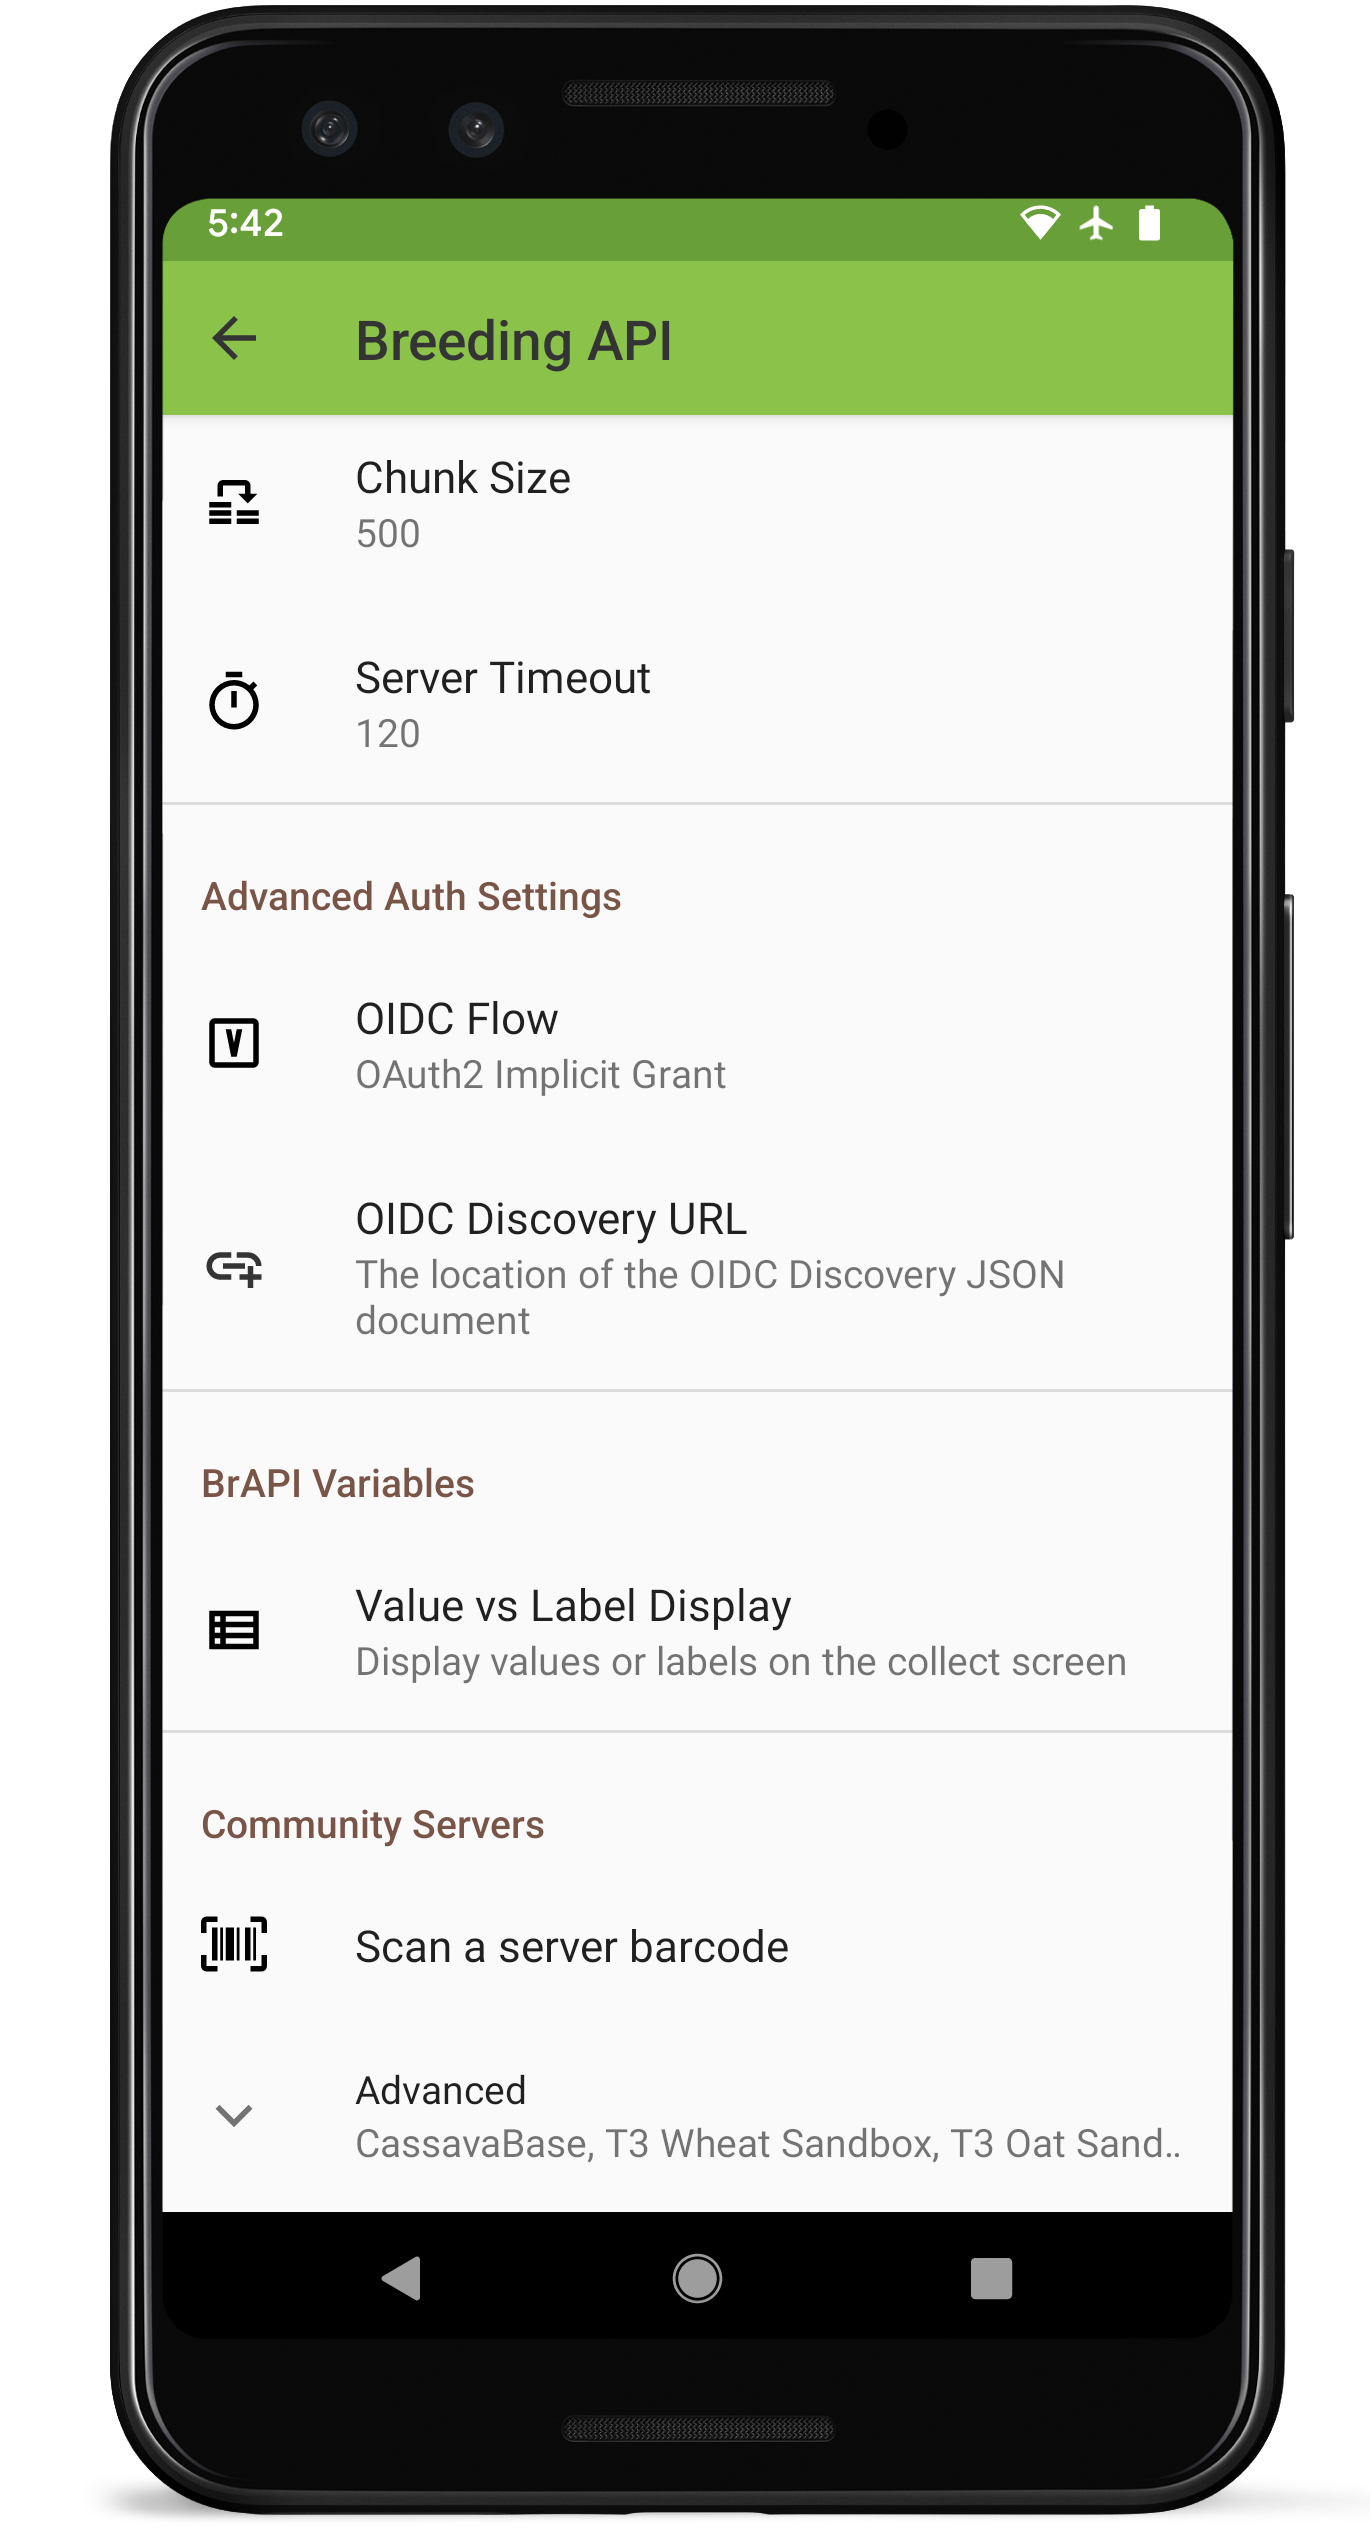
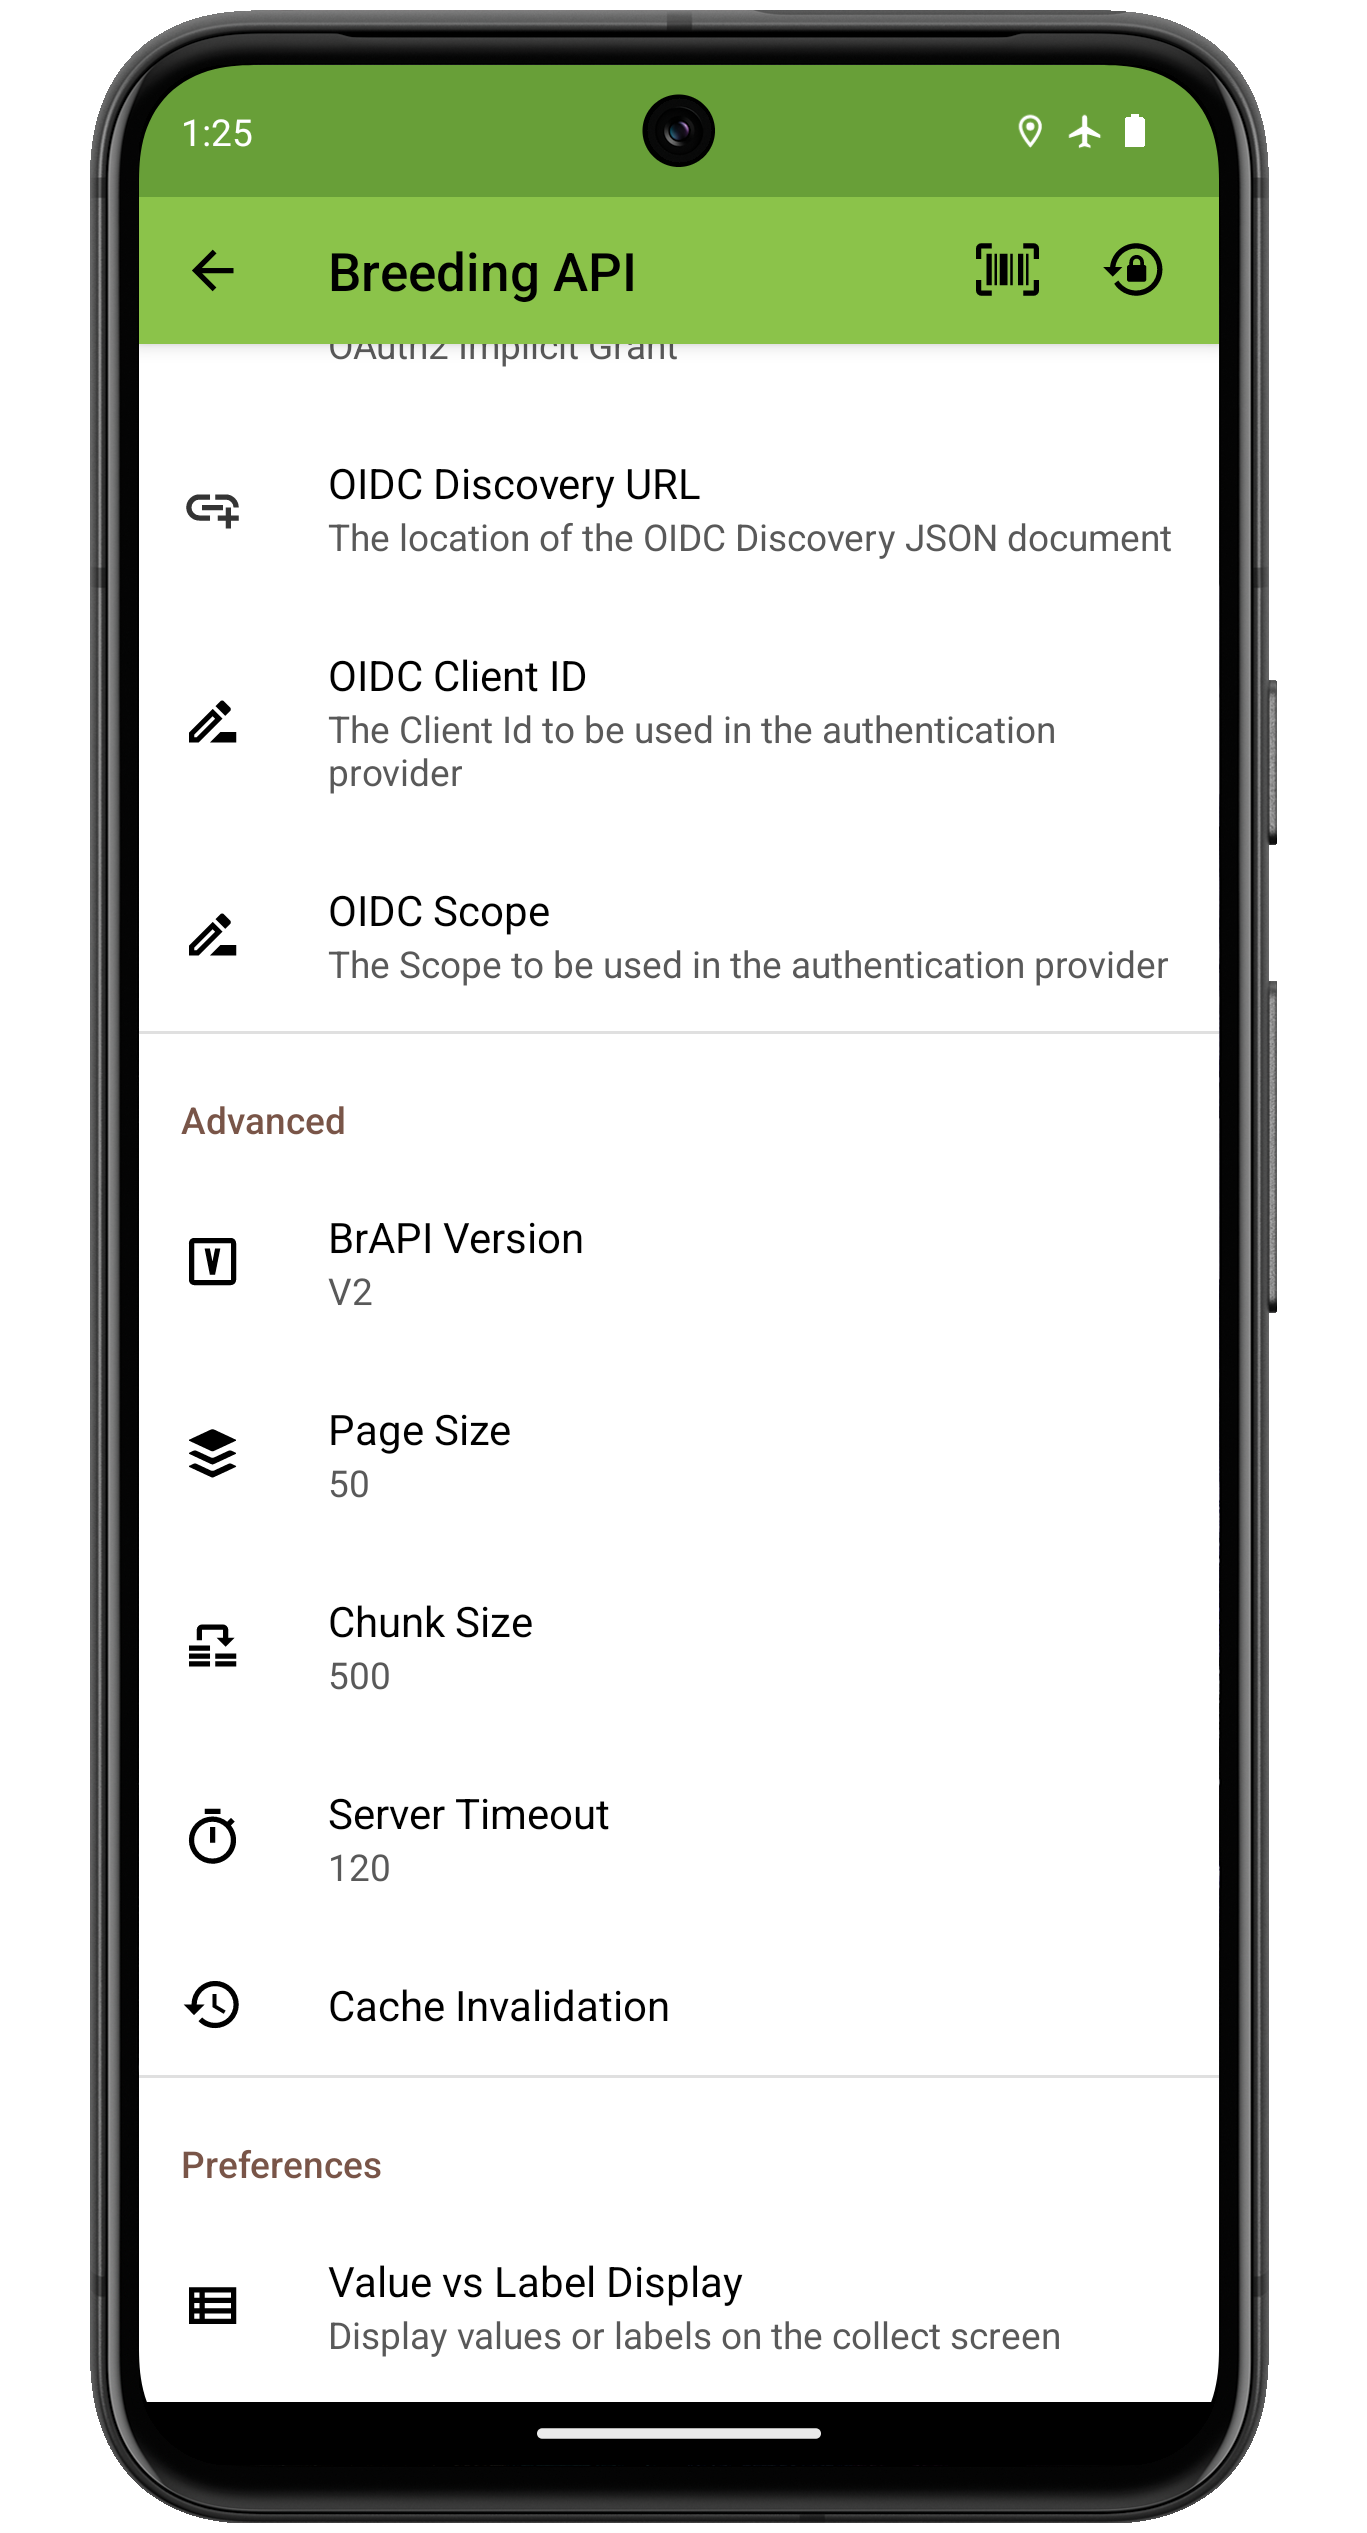
deploy: e729fdcaf909444b9840419ceb9ea5ea85849f23

diff --git a/settings/settings-brapi.md b/settings/settings-brapi.md
@@ -1,14 +1,17 @@
 BrAPI Settings
 ==============
 
-Configuration
--------------
-
 <figure align="center" class="image">
-  <img src="_static/images/settings/brapi/settings_brapi_framed.png" width="350px"> 
-  <figcaption><i>BrAPI Configuration
-Settings</i></figcaption> 
+  <img src="_static/images/settings/brapi/settings_brapi_1_framed.png" width="350px"> 
+  <figcaption><i>BrAPI settings screen layout</i></figcaption> 
 </figure>
+
+#### <img ref="url" style="vertical-align: middle;" src="_static/icons/settings/brapi/server-network.png" width="20px"> Enable BrAPI
+
+Enable/Disable BrAPI throughout Field Book app. Disabling BrAPI hides all other BrAPI settings, and removes BrAPI as an option from imports and exports.
+
+Server
+------
 
 #### <img ref="url" style="vertical-align: middle;" src="_static/icons/settings/brapi/link-plus.png" width="20px"> BrAPI Base URL
 
@@ -19,10 +22,47 @@ Set the server URL when importing via BrAPI.
   <figcaption><i>BrAPI Base URL setting</i></figcaption> 
 </figure>
 
-#### <img ref="authorize" style="vertical-align: middle;" src="_static/icons/settings/brapi/open-in-new.png" width="20px"> Authorize BrAPI
+#### <img ref="url" style="vertical-align: middle;" src="_static/icons/settings/brapi/rename-outline.png" width="20px"> BrAPI Base URL
 
-Open the authorization page to login to the BrAPI server and allow Field
-Book to communicate with it.
+Set the display name Field Book should use when referring to the BrAPI server.
+
+<figure align="center" class="image">
+  <img src="_static/images/settings/brapi/settings_brapi_display_name.png" width="325px"> 
+  <figcaption><i>BrAPI Display Name setting</i></figcaption> 
+</figure>
+
+Authorization
+-------------
+
+#### <img ref="version" style="vertical-align: middle;" src="_static/icons/settings/brapi/alpha-v-box-outline.png" width="20px"> OIDC Flow
+
+BrAPI server authentication version. Defaults to OAuth2 Implicit Grant.
+
+<figure align="center" class="image">
+  <img src="_static/images/settings/brapi/settings_brapi_oidc_flow.png" width="325px"> 
+  <figcaption><i>BrAPI OIDC flow setting</i></figcaption> 
+</figure>
+
+#### <img ref="url" style="vertical-align: middle;" src="_static/icons/settings/brapi/link-plus.png" width="20px"> OIDC Discovery URL
+
+The location of the OIDC discovery JSON document.
+
+<figure align="center" class="image">
+  <img src="_static/images/settings/brapi/settings_brapi_oidc_url.png" width="325px"> 
+  <figcaption><i>BrAPI OIDC url setting</i></figcaption> 
+</figure>
+
+#### <img ref="url" style="vertical-align: middle;" src="_static/icons/settings/brapi/rename-outline.png" width="20px"> OIDC Client ID and OIDC Scope
+
+Optional settings for when ODIC Client ID and Scope need to be specified.
+
+Advanced
+--------
+
+<figure align="center" class="image">
+  <img src="_static/images/settings/brapi/settings_brapi_2_framed.png" width="350px"> 
+  <figcaption><i>BrAPI Advanced Settings</i></figcaption> 
+</figure>
 
 #### <img ref="version" style="vertical-align: middle;" src="_static/icons/settings/brapi/alpha-v-box-outline.png" width="20px"> BrAPI Version
 
@@ -62,34 +102,17 @@ before timing out. Defaults to 2 minutes.
   <figcaption><i>BrAPI server timeout setting</i></figcaption> 
 </figure>
 
-Advanced Auth Settings
-----------------------
+#### <img ref="timeout" style="vertical-align: middle;" src="_static/icons/settings/brapi/history.png" width="20px"> Cache Invalidation
+
+Set the interval for Field Book to invalidate/refresh cached BrAPI data. Cache refreshes are important for field and trait imports to be able to capture new data from the BrAPI server.
 
 <figure align="center" class="image">
-  <img src="_static/images/settings/brapi/settings_brapi_2_framed.png" width="350px"> 
-  <figcaption><i>BrAPI Advanced Auth Settings</i></figcaption> 
+  <img src="_static/images/settings/brapi/settings_brapi_cache_invalidation.png" width="325px"> 
+  <figcaption><i>BrAPI cache invalidation</i></figcaption> 
 </figure>
 
-#### <img ref="version" style="vertical-align: middle;" src="_static/icons/settings/brapi/alpha-v-box-outline.png" width="20px"> OIDC Flow
-
-BrAPI server authentication version. Defaults to OAuth2 Implicit Grant.
-
-<figure align="center" class="image">
-  <img src="_static/images/settings/brapi/settings_brapi_oidc_flow.png" width="325px"> 
-  <figcaption><i>BrAPI OIDC flow setting</i></figcaption> 
-</figure>
-
-#### <img ref="url" style="vertical-align: middle;" src="_static/icons/settings/brapi/link-plus.png" width="20px"> OIDC Discovery URL
-
-The location of the OIDC discovery JSON document.
-
-<figure align="center" class="image">
-  <img src="_static/images/settings/brapi/settings_brapi_oidc_url.png" width="325px"> 
-  <figcaption><i>BrAPI OIDC url setting</i></figcaption> 
-</figure>
-
-BrAPI Variables
----------------
+Preferences
+-----------
 
 #### <img ref="display" style="vertical-align: middle;" src="_static/icons/settings/brapi/view-list-outline.png" width="20px"> Value vs Label Display
 
@@ -99,21 +122,4 @@ from a BrAPI Variable.
 <figure align="center" class="image">
   <img src="_static/images/settings/brapi/settings_brapi_value_label.png" width="325px"> 
   <figcaption><i>BrAPI Value vs Label setting</i></figcaption> 
-</figure>
-
-Community Servers
------------------
-
-#### <img ref="barcode" style="vertical-align: middle;" src="_static/icons/settings/brapi/barcode-scan.png" width="20px"> Scan a server barcode
-
-Add a BrAPI server by scanning a URL barcode.
-
-#### Advanced
-
-Access servers from the BrAPI community.
-
-<figure align="center" class="image">
-  <img src="_static/images/settings/brapi/settings_brapi_database_whitelist.png" width="325px"> 
-  <figcaption><i>BrAPI database
-whitelist</i></figcaption> 
 </figure>

diff --git a/faq.md b/faq.md
@@ -15,9 +15,9 @@ First, consider if it's possible to import data without prepping your own custom
 
 If it is necessary to prepare your own custom files:
 
-Custom fields can be loaded by preparing a spreadsheet. The required information is detailed in the <a href="fields.md"><img style="vertical-align: middle;" src="_static/icons/home/view-module.png" width="20px"></a> [Fields](fields.md) section of the docs. The app comes with a handful of sample fields that are loaded from files, so you can also look at `field_sample.csv` in the `/field_import` folder for guidance.
+    Custom fields can be loaded by preparing a spreadsheet. The required information is detailed in the <a href="fields.md"><img style="vertical-align: middle;" src="_static/icons/home/view-module.png" width="20px"></a> [Fields](fields.md) section of the docs. The app comes with a handful of sample fields that are loaded from files, so you can also look at `field_sample.csv` in the `/field_import` folder for guidance.
 
-Custom traits are best created directly in the app, but can be saved to and loaded from a `.trt` file. The `.trt` extension is not a special format, it is just a `.csv` file by a different name, so can be opened and edited if needed. The app comes with a handful of sample traits that are loaded from a file, so you can also look at `trait_sample.trt` in the `/trait` folder for guidance.
+    Custom traits are best created directly in the app, but can be saved to and loaded from a `.trt` file. The `.trt` extension is not a special format, it is just a `.csv` file by a different name, so can be opened and edited if needed. The app comes with a handful of sample traits that are loaded from a file, so you can also look at `trait_sample.trt` in the `/trait` folder for guidance.
 
 What filetypes are compatible with Field Book?
 ----------------------------------------------
@@ -29,15 +29,15 @@ What are the recommended devices for Field Book?
 
 Field Book is designed to work on any modern Android device (~10 years old or less). When making a choice between Android devices, consider where and how you will be using the app.
 
-We tend to recommend smartphones as the best choice if you will be carrying the device (lightweight), taking photos (higher image quality), or connecting to the internet in the field (SIM slot for mobile data). Among smartphones we recommend [Google Pixel devices](https://store.google.com/category/phones) for their UI simplicity (stock android) and higher than average image quality and GPS accuracy. We use Pixels when developing and testing new versions of Field Book.
+We tend to recommend smartphones as the best choice if you will be carrying the device (lightweight), taking photos (higher image quality), or connecting to the internet in the field (SIM slot for mobile data). Among smartphones we recommend [Google Pixel devices](https://store.google.com/category/phones) for the simplicity of their user interface (stock android), and higher than average image quality and GPS accuracy. We use Pixels when developing and testing new versions of Field Book.
 
-In cases when screen visibility in full sunlight is a concern we reccomend eink devices like the [BOOX Palma](https://shop.boox.com/products/palma).
+In cases when screen visibility in full sunlight is a concern we recommend eink devices like the [BOOX Palma](https://shop.boox.com/products/palma).
 
 How do I request a new feature?
 -------------------------------
 
 Field Book issues, including new feature requests, are tracked [here on Github](https://github.com/PhenoApps/Field-Book/issues).
 
-Search the list of existing issues before making a new request. This is important to prevent duplication. If a request already exists, you can comment on it to add your input and increase its visiblity.
+Search the list of existing issues before making a new request. This is important to prevent duplication. If a request already exists, you add your input by making a comment. This also helps increase the issue's visiblity.
 
-If you confirm that the feature you have in mind hasn't been requested already then click the "New Issue" button. Then select "New Feature", and fill out the required fields. Be sure to include lots of detail describing what you have in mind, what problem it solves, and what alternatives exist.
+Press the "New Issue" button on the upper right side of the issues page if you confirm that the feature you have in mind hasn't been requested already. Then select "New Feature", and fill out the required fields. Be sure to include lots of detail describing what you have in mind, what problem it solves, and what alternative solutions exist.
